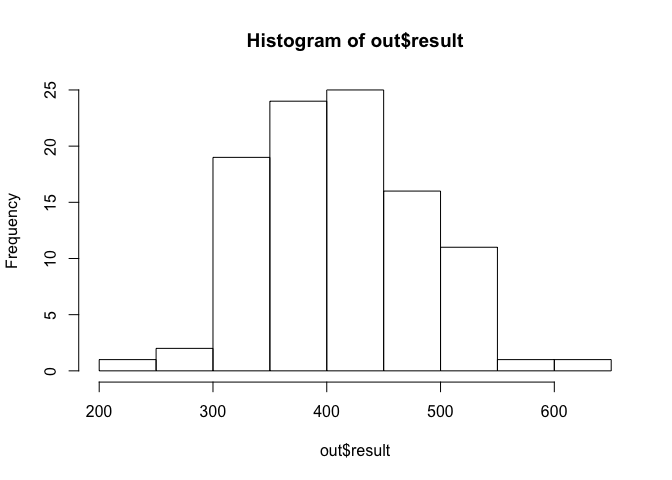
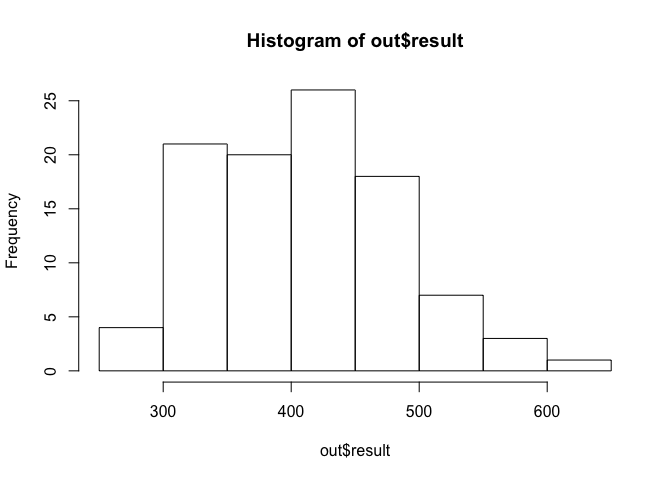
no message

diff --git a/flu/flu.md b/flu/flu.md
@@ -249,7 +249,7 @@ test set:
     RMSPE = sqrt(MSPE)
     RMSPE
 
-    ## [1] 345.2796
+    ## [1] 477.4367
 
 Your number will be slightly different from mine, since the train/test
 split is random.
@@ -294,7 +294,7 @@ to Monte Carlo variability:
 
     mean(out$result)
 
-    ## [1] 411.2591
+    ## [1] 410.4394
 
 ### Comparing with the full model
 
@@ -308,182 +308,182 @@ otherwise named."
     coef(lm_big)
 
     ##                              (Intercept) 
-    ##                               773.751306 
+    ##                              736.9608878 
     ##                          dangerous.fever 
-    ##                               -16.069917 
+    ##                              -55.3301569 
     ##                   how.long.does.flu.last 
-    ##                               155.834269 
+    ##                              -97.2054244 
     ##                           i.have.the.flu 
-    ##                              -136.647130 
+    ##                              176.2093356 
     ##                              fever.cough 
-    ##                               268.507169 
+    ##                              -56.5954789 
     ##        what.to.eat.when.you.have.the.flu 
-    ##                                88.998717 
+    ##                              174.5657472 
     ##                         medicine.for.flu 
-    ##                               238.297889 
+    ##                               12.7418114 
     ## how.long.are.you.contagious.with.the.flu 
-    ##                              -129.091167 
+    ##                               21.0990608 
     ##                          viral.pneumonia 
-    ##                                34.402334 
+    ##                              114.4942361 
     ##                  how.to.get.over.the.flu 
-    ##                               192.427480 
+    ##                              174.5033328 
     ##                            treat.the.flu 
-    ##                               154.396828 
+    ##                              443.4961498 
     ##                         signs.of.the.flu 
-    ##                               243.679892 
+    ##                              118.4830147 
     ##                           flu.contagious 
-    ##                                -2.041536 
+    ##                              -16.6101661 
     ##                          ear.thermometer 
-    ##                               -81.425067 
+    ##                              -21.1091727 
     ##                     can.dogs.get.the.flu 
-    ##                                23.607846 
+    ##                              -45.2078812 
     ##                   anas.barbariae.hepatis 
-    ##                               273.472211 
+    ##                              206.2928667 
     ##                         how.to.treat.flu 
-    ##                                85.119564 
+    ##                              -82.6260768 
     ##                                 cure.flu 
-    ##                               192.643967 
+    ##                              371.3268611 
     ##                                treat.flu 
-    ##                               134.812447 
+    ##                               27.3779209 
     ##                              cold.or.flu 
-    ##                               -19.260745 
+    ##                               57.5863429 
     ##                     what.is.a.high.fever 
-    ##                               -20.911138 
+    ##                              -12.8918239 
     ##                          oscillococcinum 
-    ##                               -35.449024 
+    ##                               63.8850529 
     ##                        treatment.for.flu 
-    ##                               146.871701 
+    ##                              -14.5541187 
     ##                         remedies.for.flu 
-    ##                              -115.091641 
+    ##                             -243.8328369 
     ##                how.to.get.rid.of.the.flu 
-    ##                                 8.665804 
+    ##                               92.7041911 
     ##                      bacterial.pneumonia 
-    ##                               -63.823735 
+    ##                              -24.1865359 
     ##                      symptoms.of.the.flu 
-    ##                              -306.486844 
+    ##                             -270.8577862 
     ##                          fever.and.cough 
-    ##                                37.932355 
+    ##                               13.3390056 
     ##                         braun.thermoscan 
-    ##                               -30.114003 
+    ##                              -81.1030075 
     ##                 how.long.am.i.contagious 
-    ##                              -112.928445 
+    ##                               61.2026717 
     ##                    home.remedies.for.flu 
-    ##                              -227.243697 
+    ##                             -152.7514817 
     ##                              cough.fever 
-    ##                              -173.720832 
+    ##                               19.0237078 
     ##                             cure.the.flu 
-    ##                              -200.293149 
+    ##                              -15.7522501 
     ##                     low.body.temperature 
-    ##                              -189.700095 
+    ##                             -175.5622214 
     ##                           contagious.flu 
-    ##                               232.587105 
+    ##                             -100.9357891 
     ##                           headache.cough 
-    ##                                22.117613 
+    ##                                6.0407808 
     ##                            painful.cough 
-    ##                               -35.874104 
+    ##                              -12.5080703 
     ##                           get.rid.of.flu 
-    ##                               -35.543430 
+    ##                               58.0317901 
     ##                              normal.body 
-    ##                               -38.055821 
+    ##                               43.1322823 
     ##                           cough.headache 
-    ##                               -17.375703 
+    ##                               25.4689289 
     ##                     how.to.fight.the.flu 
-    ##                                 4.785462 
+    ##                               48.4889219 
     ##                              flu.or.cold 
-    ##                              -260.844435 
+    ##                             -242.9741008 
     ##            over.the.counter.flu.medicine 
-    ##                              -119.491463 
+    ##                               -3.9704551 
     ##                            flu.and.fever 
-    ##                               -28.879033 
+    ##                              143.9292988 
     ##                         viral.bronchitis 
-    ##                                11.629557 
+    ##                               11.6930684 
     ##                               thermoscan 
-    ##                                91.225057 
+    ##                               24.1969677 
     ##                       taking.temperature 
-    ##                                35.916752 
+    ##                               32.7466630 
     ##                        influenza.a.and.b 
-    ##                                -9.335658 
+    ##                               43.0260869 
     ##                                fever.flu 
-    ##                               177.260550 
+    ##                              -46.3360410 
     ##                         oral.thermometer 
-    ##                                58.623686 
+    ##                               82.4650990 
     ##                                  the.flu 
-    ##                                26.813551 
+    ##                              -23.4067899 
     ##                     medicine.for.the.flu 
-    ##                                 2.749747 
+    ##                              -15.7353139 
     ##                            treat.a.fever 
-    ##                              -230.198040 
+    ##                              -36.3540930 
     ##                          cough.after.flu 
-    ##                              -120.611724 
+    ##                               87.2657849 
     ##                         acute.bronchitis 
-    ##                                35.275416 
+    ##                               11.8054724 
     ##         what.to.do.when.you.have.the.flu 
-    ##                               -55.238521 
+    ##                             -105.3402310 
     ##                               bronchitis 
-    ##                                 6.178018 
+    ##                               18.0074288 
     ##                                extractum 
-    ##                               -21.064994 
+    ##                              -46.6117223 
     ##                        best.flu.medicine 
-    ##                                69.606859 
+    ##                             -154.2243811 
     ##              how.long.are.you.contagious 
-    ##                               -93.977675 
+    ##                              -17.6181799 
     ##                           fever.reducers 
-    ##                               112.354988 
+    ##                              116.5216595 
     ##                         body.temperature 
-    ##                               -29.056927 
+    ##                                9.7141397 
     ##                             reduce.fever 
-    ##                               -56.796043 
+    ##                              -85.6968968 
     ##                             flu.remedies 
-    ##                              -600.712699 
+    ##                              -75.4859464 
     ##         anas.barbariae.hepatis.et.cordis 
-    ##                                48.389338 
+    ##                              -29.3448465 
     ##                     remedies.for.the.flu 
-    ##                              -250.703573 
+    ##                              -30.3793628 
     ##                       symptoms.pneumonia 
-    ##                               -31.261587 
+    ##                              -27.2286546 
     ##                           viral.syndrome 
-    ##                               124.958869 
+    ##                              -68.1762357 
     ##                         the.flu.symptoms 
-    ##                                 9.650402 
+    ##                             -148.6138595 
     ##                        what.is.influenza 
-    ##                                65.749104 
+    ##                              190.7448176 
     ##                                pneumonia 
-    ##                               -46.313597 
+    ##                               24.2097936 
     ##                        fever.temperature 
-    ##                                30.248829 
+    ##                               40.7280936 
     ##                        child.temperature 
-    ##                                55.190036 
+    ##                              -43.1151911 
     ##            incubation.period.for.the.flu 
-    ##                                61.528149 
+    ##                             -131.6218902 
     ##                               high.fever 
-    ##                              -127.738847 
+    ##                             -146.3981624 
     ##                            low.body.temp 
-    ##                               -71.379277 
+    ##                              -28.3526965 
     ##                 how.long.does.fever.last 
-    ##                               260.629467 
+    ##                               94.6537532 
     ##                            is.it.the.flu 
-    ##                                81.349326 
+    ##                                2.6597317 
     ##                   what.to.do.for.the.flu 
-    ##                                23.353996 
+    ##                               49.3995228 
     ##                            fight.the.flu 
-    ##                               195.646005 
+    ##                               33.9282777 
     ##                   symptoms.of.bronchitis 
-    ##                               292.040884 
+    ##                               -3.6329087 
     ##                     bacterial.bronchitis 
-    ##                                56.788870 
+    ##                              105.7237677 
     ##                              chest.cough 
-    ##                                79.704834 
+    ##                              -48.8539551 
     ##                             fever.breaks 
-    ##                               -35.949067 
+    ##                             -122.2597123 
     ##                          cough.and.fever 
-    ##                               -18.660017 
+    ##                               19.0934320 
     ##                           fever.too.high 
-    ##                                61.800394 
+    ##                                6.7810635 
     ##                       early.flu.symptoms 
-    ##                                -6.747565
+    ##                                0.5412513
 
-Let's use the testing set to compare the error of this big model with
-the small three-variable model:
+That's a lot of coefficients! Let's now use the testing set to compare
+the error of this big model with the small three-variable model:
 
     # Fit small model
     lm_small = lm(cdcflu ~ flu.and.fever + over.the.counter.flu.medicine + treat.a.fever, data=flu_train)
@@ -499,7 +499,7 @@ the small three-variable model:
     # The result?
     c(RMSPE_small, RMSPE_big)
 
-    ## [1] 366.0329 574.5212
+    ## [1] 506.2725 662.3172
 
 This tells which model performed better on this particular testing set.
 But clearly it will be better to average over many different train/test
@@ -533,7 +533,7 @@ across all these different train/test splits:
     colMeans(out)
 
     ##       V1       V2 
-    ## 408.1512 511.1926
+    ## 413.8996 509.7702
 
 It looks as though the big model has *worse* generalization error than
 the simple three-variable model --- a classic example of overfitting. In
@@ -543,10 +543,10 @@ in the data.
 
 ### Using stepwise selection
 
-We've seem that the small three-variable model actually outperforms the
-big, 86-variable model at prediction. But is there some happy medium?
-That is, can we do better by including somewhere between 3 and 86
-variables?
+We've seen that the small three-variable model actually outperforms the
+big, 86-variable model at prediction. But is there medium-sized model
+that's better than either of them? That is, can we do better by
+including somewhere between 3 and 86 variables in our model?
 
 We'll use stepwise selection to search for a model that leads to
 superior generalization error, starting from the big model. Notice that
@@ -554,7 +554,7 @@ we use *all* the data, not just the training data, to actually search
 for a model using stepwise selection:
 
     lm_big = lm(cdcflu ~ ., data=flu)
-    lm_step = step(lm_big, data = flu, trace=0)
+    lm_step = step(lm_big, data = flu)
     coef(lm_step)
 
     ##                   (Intercept)        how.long.does.flu.last 
@@ -592,7 +592,16 @@ for a model using stepwise selection:
     ##                   chest.cough 
     ##                     -48.53005
 
-We can also compare the sizes of the two models:
+The `step` command should show *a lot* of output on your screen as it
+searches for possible additions and deletions that improve the
+out-of-sample generalization error of the model. If you want to suppress
+this output, add the flag `trace=0` to the `step` command.
+
+Once the `step` function cannot make any improvements to the model, the
+algorithm terminates, and stores the resulting model in what we've
+called `lm_step`.
+
+We can now compare the sizes of the two models:
 
     length(coef(lm_big))
 
@@ -602,8 +611,8 @@ We can also compare the sizes of the two models:
 
     ## [1] 33
 
-This model uses 32 variables (plus an intercept) -- more than 3, but a
-lot less than 86!
+The stepwise-selected model uses 32 variables (plus an intercept) --
+more than 3, but a lot less than 86!
 
 Let's now see how our stepwise-selection model performs when we test its
 true out-of-sample performance. There's a cute trick we can use here to
@@ -629,7 +638,7 @@ And the result?
 
     RMSPE_step
 
-    ## [1] 252.5198
+    ## [1] 269.8901
 
 Again, your number will be different because of Monte Carlo variability.
 
@@ -665,7 +674,7 @@ to what we get from the small and big models on the same set of splits:
     colMeans(out)
 
     ##       V1       V2       V3 
-    ## 415.8322 519.5109 286.9927
+    ## 410.8816 514.1212 275.2343
 
 Your numbers will be a bit different, but on average, you should notice
 that the stepwise model (the third entry) significantly outperforms both
